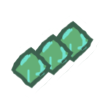
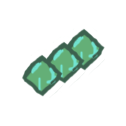
High resolution powers

Changed region(s): [[0.0849, 0.1981, 0.9057, 0.8491]]

diff --git a/src/main/java/madsciencemod/powers/JetpackPower.java b/src/main/java/madsciencemod/powers/JetpackPower.java
@@ -6,24 +6,19 @@ import com.megacrit.cardcrawl.core.AbstractCreature;
 import com.megacrit.cardcrawl.core.CardCrawlGame;
 import com.megacrit.cardcrawl.dungeons.AbstractDungeon;
 import com.megacrit.cardcrawl.localization.PowerStrings;
-import com.megacrit.cardcrawl.powers.AbstractPower;
 
 import madsciencemod.actions.common.SpendFuelAction;
 
-public class JetpackPower extends AbstractPower {
+public class JetpackPower extends AbstractMadSciencePower {
     public static final String POWER_ID = "MadScienceMod:Jetpack";
     private static final PowerStrings powerStrings = CardCrawlGame.languagePack.getPowerStrings(POWER_ID);
     public static final String NAME = powerStrings.NAME;
     public static final String[] DESCRIPTIONS = powerStrings.DESCRIPTIONS;
 
     public JetpackPower(AbstractCreature owner, int amount) {
-        this.ID = POWER_ID;
-        this.name = NAME;
-        this.owner = owner;
-        this.amount = amount;
+        super(POWER_ID, NAME, owner, amount);
         this.isTurnBased = true;
         this.updateDescription();
-        this.loadRegion("flight"); // reuse Flight icon
         this.priority = 50;
     }
 

diff --git a/src/main/java/madsciencemod/powers/AbstractMadSciencePower.java b/src/main/java/madsciencemod/powers/AbstractMadSciencePower.java
@@ -1,17 +1,22 @@
 package madsciencemod.powers;
 
+import com.badlogic.gdx.Gdx;
+import com.badlogic.gdx.graphics.g2d.TextureAtlas;
 import com.megacrit.cardcrawl.core.AbstractCreature;
-import com.megacrit.cardcrawl.helpers.ImageMaster;
 import com.megacrit.cardcrawl.powers.AbstractPower;
 
 import madsciencemod.MadScienceMod;
 
 public abstract class AbstractMadSciencePower extends AbstractPower {
+    public static TextureAtlas atlas = new TextureAtlas(Gdx.files.internal("madsciencemod/images/powers/powers.atlas"));
+
     public AbstractMadSciencePower(String id, String name, AbstractCreature owner) {
         this.ID = id;
         this.name = name;
         this.owner = owner;
-        this.img = ImageMaster.loadImage(MadScienceMod.powerImage(id));
+        String filename = MadScienceMod.removeModId(id);
+        this.region48 = atlas.findRegion("48/" + filename);
+        this.region128 = atlas.findRegion("128/" + filename);
     }
 
     public AbstractMadSciencePower(String id, String name, AbstractCreature owner, int amount) {

diff --git a/src/main/java/madsciencemod/MadScienceMod.java b/src/main/java/madsciencemod/MadScienceMod.java
@@ -1,6 +1,5 @@
 package madsciencemod;
 
-import java.lang.reflect.Method;
 import java.lang.reflect.Type;
 import java.nio.charset.StandardCharsets;
 import java.util.Map;
@@ -68,11 +67,11 @@ public class MadScienceMod implements
     public static String relicImage(String id) {
         return "madsciencemod/images/relics/" + removeModId(id) + ".png";
     }
-    public static String relicOutline(String id) {
-        return "madsciencemod/images/relics/outline/" + removeModId(id) + ".png";
+    public static String relicLargeImage(String id) {
+        return "madsciencemod/images/relics/large/" + removeModId(id) + ".png";
     }
-    public static String powerImage(String id) {
-        return "madsciencemod/images/powers/32/" + removeModId(id) + ".png";
+    public static String relicOutlineImage(String id) {
+        return "madsciencemod/images/relics/outline/" + removeModId(id) + ".png";
     }
 
     public MadScienceMod() {

diff --git a/src/main/java/madsciencemod/relics/AbstractMadScienceRelic.java b/src/main/java/madsciencemod/relics/AbstractMadScienceRelic.java
@@ -1,14 +1,16 @@
 package madsciencemod.relics;
 
-import com.badlogic.gdx.Gdx;
-import com.badlogic.gdx.graphics.Texture;
+import com.megacrit.cardcrawl.helpers.ImageMaster;
 
 import basemod.abstracts.CustomRelic;
 import madsciencemod.MadScienceMod;
 
 public abstract class AbstractMadScienceRelic extends CustomRelic {
     public AbstractMadScienceRelic(String id, RelicTier tier, LandingSound landingSound) {
-        super(id, new Texture(Gdx.files.internal(MadScienceMod.relicImage(id))), new Texture(Gdx.files.internal(MadScienceMod.relicOutline(id))), tier, landingSound);
+        super(id, "", tier, landingSound);
+        img = ImageMaster.loadImage(MadScienceMod.relicImage(id));
+        largeImg = ImageMaster.loadImage(MadScienceMod.relicLargeImage(id));
+        outlineImg = ImageMaster.loadImage(MadScienceMod.relicOutlineImage(id));
     }
 }
 

diff --git a/CHANGELOG.md b/CHANGELOG.md
@@ -1,5 +1,6 @@
 ### v0.3.0
 * Prefix all cards, relics, powers and potions with ModID
+* High resolution power images
 
 ### v0.2.5
 * Update for week 46 / BaseMod 5.0.0
